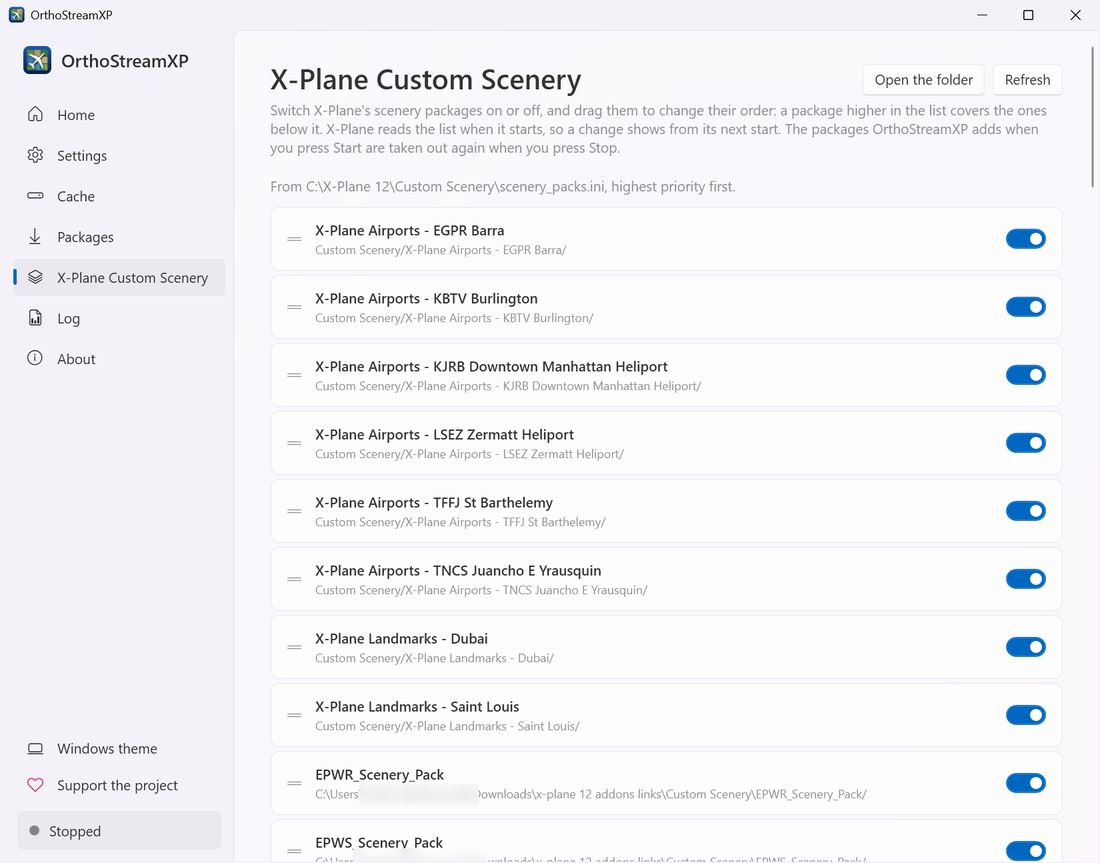
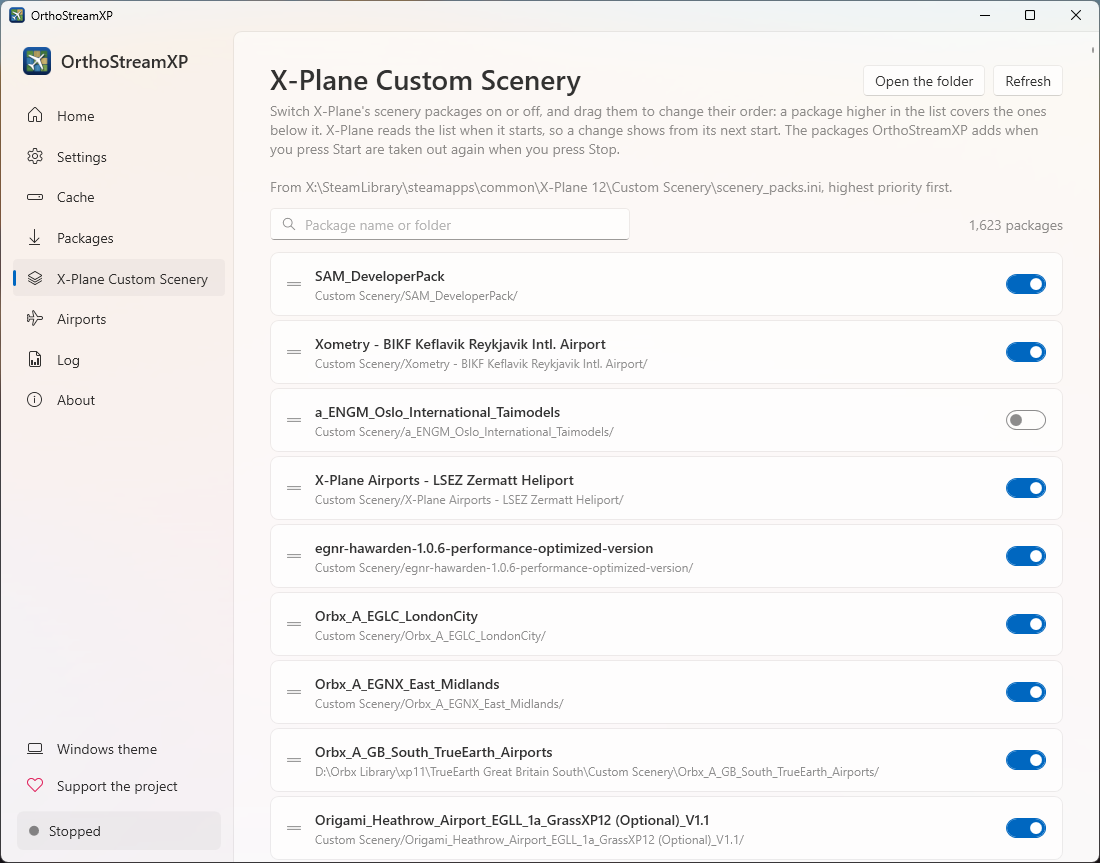
Document searching the X-Plane Custom Scenery page
A "Finding a package" section on the search, the count and Show in list,
a new screenshot of a search, and the page's screenshot retaken with the
search box.

diff --git a/docs/custom-scenery.md b/docs/custom-scenery.md
@@ -13,13 +13,21 @@ X-Plane keeps a list of its scenery packages in `Custom Scenery\scenery_packs.in
 - The page needs the **X-Plane folder** to be set in [Settings › Folders](settings.md#folders); until then it says *Choose your X-Plane folder first*. If X-Plane has never started with this folder, the list is empty: X-Plane writes the file the first time it starts.
 - **Open the folder** opens X-Plane's `Custom Scenery` folder in Explorer. **Refresh** reads the file again, for example after you installed scenery while the page was open.
 
+## Finding a package
+
+The list can be long. Type part of a package's name or folder in the search box above the list to show only the packages that match, for example `kden` or `D:\Ortho4XP`. Capitals do not matter, and a folder can be typed with `\` or `/`. On the right, the page counts the packages: all of them, or how many match while you search (*3 of 1,623 packages*). **Esc** or the **×** in the box empties it and shows the whole list again; the search stays while the list is read again (**Refresh**, Start, Stop).
+
+![Searching for kden: three of the packages match, each with Show in list](images/custom-scenery-search.png)
+
+While you search, the switches work as usual, but packages cannot be dragged: between two packages that match, many others may be hidden. To move a package you found, click **Show in list** in its row. The search is cleared, the page scrolls to the package and marks it with a coloured border, and you can drag it to its new place.
+
 ## Switching packages on or off
 
 The switch at the end of each row turns a package on or off in X-Plane. A package switched off stays in its folder and in the list; X-Plane just does not load it. This is the same as X-Plane's own `SCENERY_PACK_DISABLED` lines in the file.
 
 ## Changing the order
 
-Drag a package by the handle at the start of its row and drop it where you want it: the other rows move apart to show where it lands. Higher in the list means drawn on top.
+Drag a package by the handle at the start of its row and drop it where you want it: the other rows move apart to show where it lands. Higher in the list means drawn on top. To find a package first, see [Finding a package](#finding-a-package).
 
 Leave the photo scenery near the end, below airports and overlays. With **Keep the photo scenery below airports and overlays** on (see [Settings › Other](settings.md#other)), OrthoStreamXP moves its packages back to the end at every start anyway.
 
